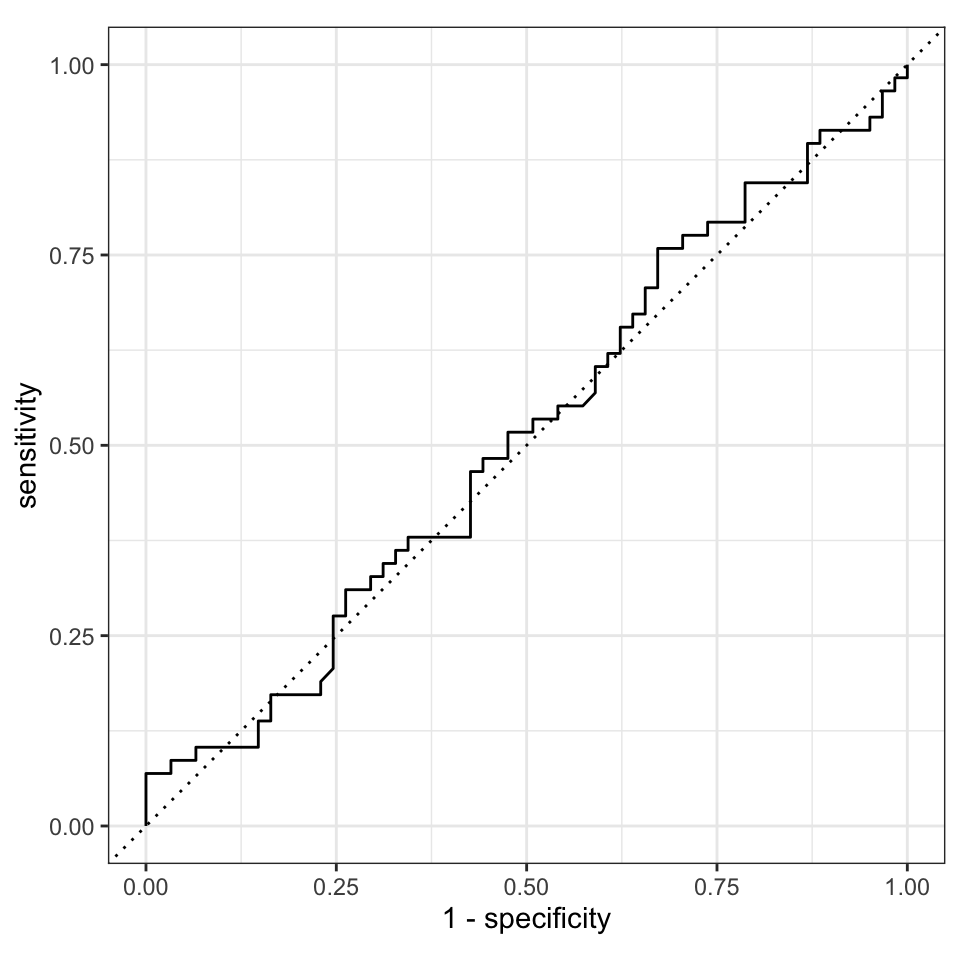
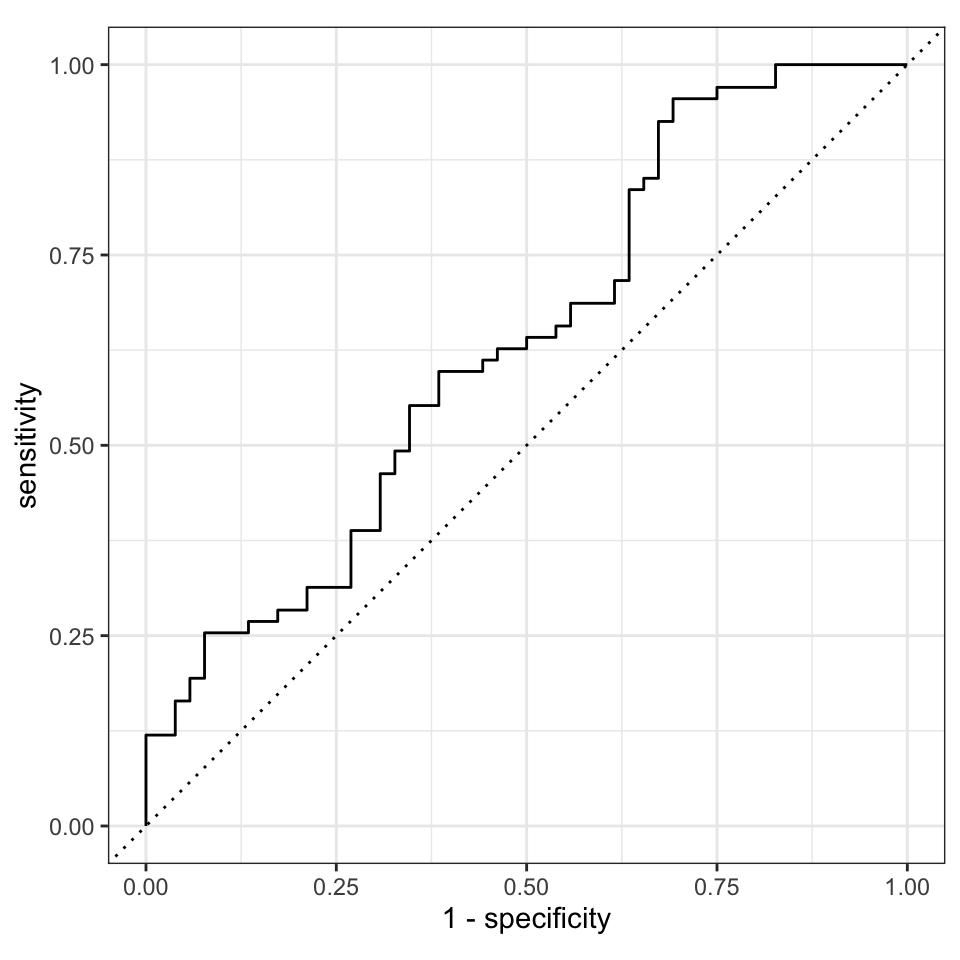
added seed

diff --git a/docs/classification-neural-networks.html b/docs/classification-neural-networks.html
@@ -586,7 +586,7 @@ div.csl-indent {
 </header><div class="cell">
 
 </div>
-<p><em>Version vom December 02, 2022 um 16:04:37</em></p>
+<p><em>Version vom December 02, 2022 um 16:11:29</em></p>
 <div class="quarto-figure quarto-figure-center">
 <figure class="figure"><p><img src="images/caution.png" class="img-fluid figure-img" style="width:50.0%"></p>
 </figure>
@@ -603,7 +603,9 @@ div.csl-indent {
 <span><span class="fu">conflict_prefer</span><span class="op">(</span><span class="st">"select"</span>, <span class="st">"dplyr"</span><span class="op">)</span></span>
 <span><span class="fu">conflict_prefer</span><span class="op">(</span><span class="st">"filter"</span>, <span class="st">"dplyr"</span><span class="op">)</span></span>
 <span><span class="fu">conflict_prefer</span><span class="op">(</span><span class="st">"mutate"</span>, <span class="st">"dplyr"</span><span class="op">)</span></span>
-<span><span class="fu">conflict_prefer</span><span class="op">(</span><span class="st">"extract"</span>, <span class="st">"magrittr"</span><span class="op">)</span></span></code><button title="In die Zwischenablage kopieren" class="code-copy-button"><i class="bi"></i></button></pre></div>
+<span><span class="fu">conflict_prefer</span><span class="op">(</span><span class="st">"extract"</span>, <span class="st">"magrittr"</span><span class="op">)</span></span>
+<span><span class="co">##</span></span>
+<span><span class="fu"><a href="https://rdrr.io/r/base/Random.html">set.seed</a></span><span class="op">(</span><span class="fl">2025429</span><span class="op">)</span></span></code><button title="In die Zwischenablage kopieren" class="code-copy-button"><i class="bi"></i></button></pre></div>
 </div>
 <p>Am Ende des Kapitels findest du nochmal den gesamten R Code in einem Rutsch zum selber durchführen oder aber kopieren.</p>
 </section><section id="daten" class="level2" data-number="55.2"><h2 data-number="55.2" class="anchored" data-anchor-id="daten">
@@ -790,8 +792,8 @@ div.csl-indent {
 <div class="cell-output cell-output-stdout">
 <pre><code>          Truth
 Prediction  m  w
-         m 61 58
-         w  0  0</code></pre>
+         m 50 59
+         w  2  8</code></pre>
 </div>
 </div>
 <div class="cell">
@@ -800,19 +802,19 @@ Prediction  m  w
 <pre><code># A tibble: 13 × 3
    .metric              .estimator .estimate
    &lt;chr&gt;                &lt;chr&gt;          &lt;dbl&gt;
- 1 accuracy             binary         0.513
- 2 kap                  binary         0    
- 3 sens                 binary         1    
- 4 spec                 binary         0    
- 5 ppv                  binary         0.513
- 6 npv                  binary       NaN    
- 7 mcc                  binary        NA    
- 8 j_index              binary         0    
- 9 bal_accuracy         binary         0.5  
-10 detection_prevalence binary         1    
-11 precision            binary         0.513
-12 recall               binary         1    
-13 f_meas               binary         0.678</code></pre>
+ 1 accuracy             binary        0.487 
+ 2 kap                  binary        0.0721
+ 3 sens                 binary        0.962 
+ 4 spec                 binary        0.119 
+ 5 ppv                  binary        0.459 
+ 6 npv                  binary        0.8   
+ 7 mcc                  binary        0.145 
+ 8 j_index              binary        0.0809
+ 9 bal_accuracy         binary        0.540 
+10 detection_prevalence binary        0.916 
+11 precision            binary        0.459 
+12 recall               binary        0.962 
+13 f_meas               binary        0.621 </code></pre>
 </div>
 </div>
 <div class="cell" data-layout-align="center">
